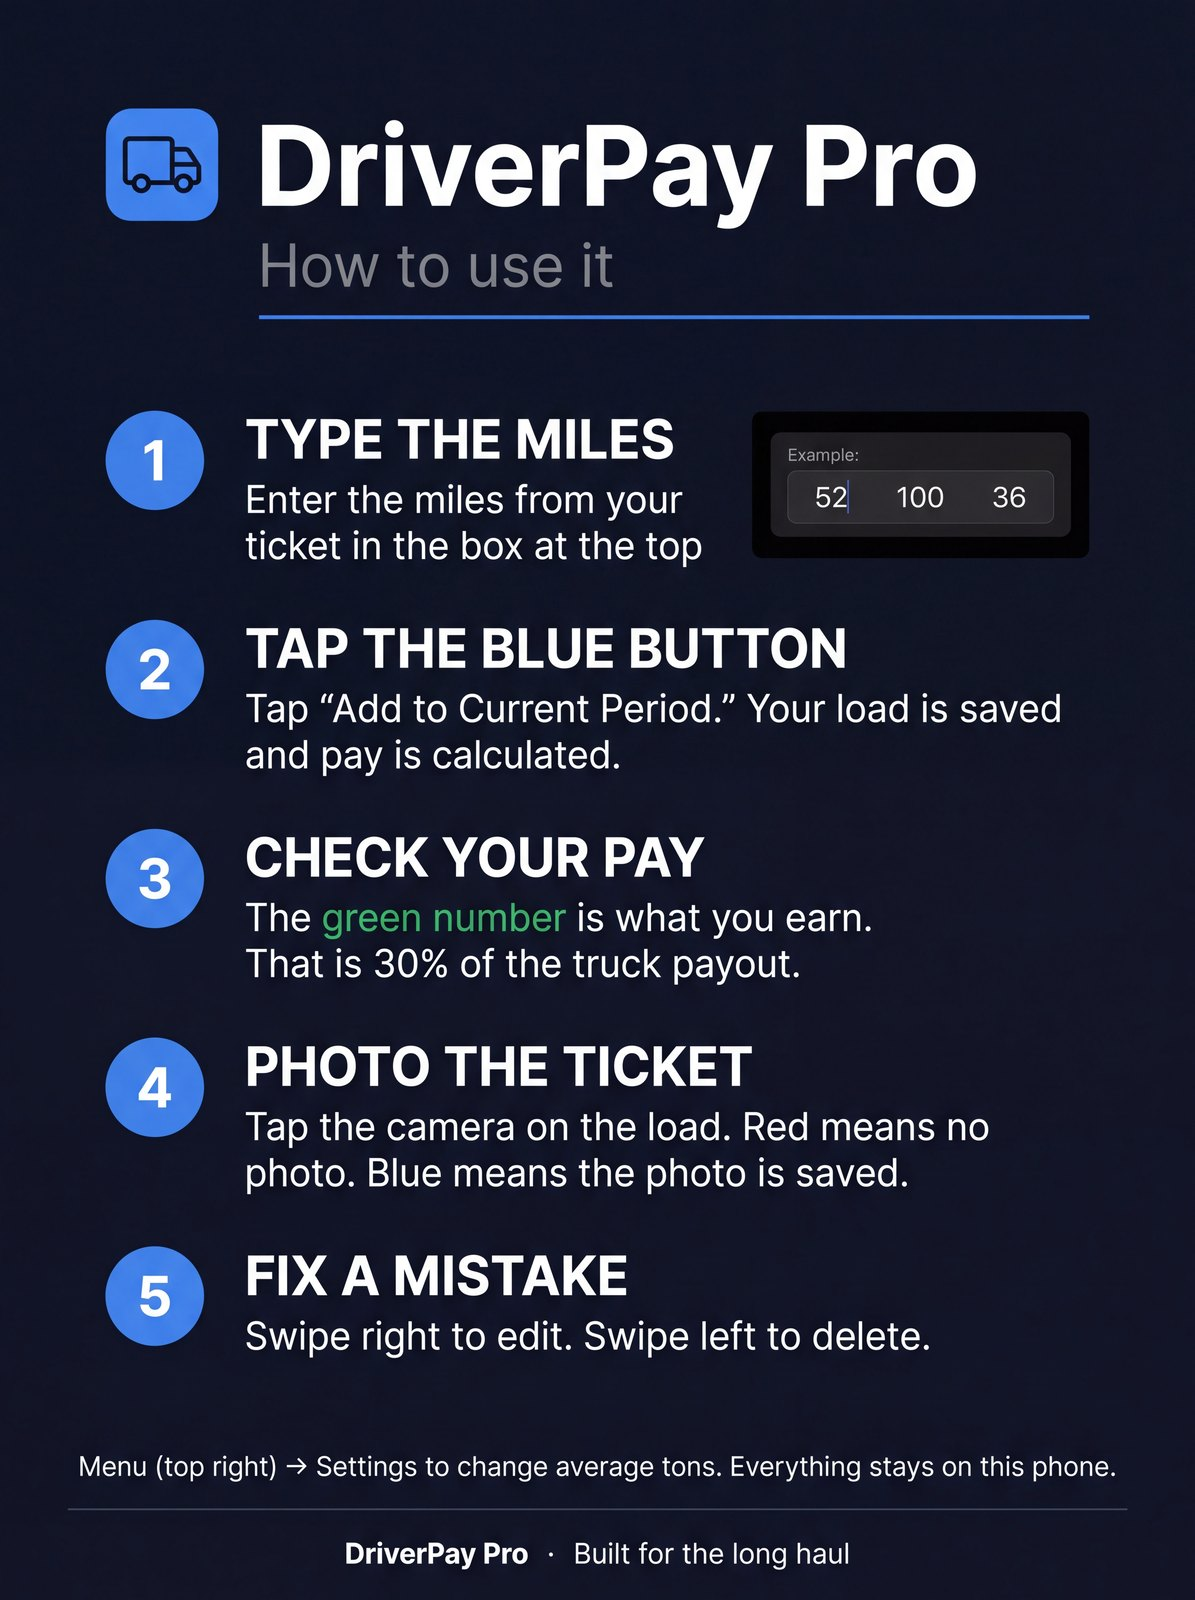
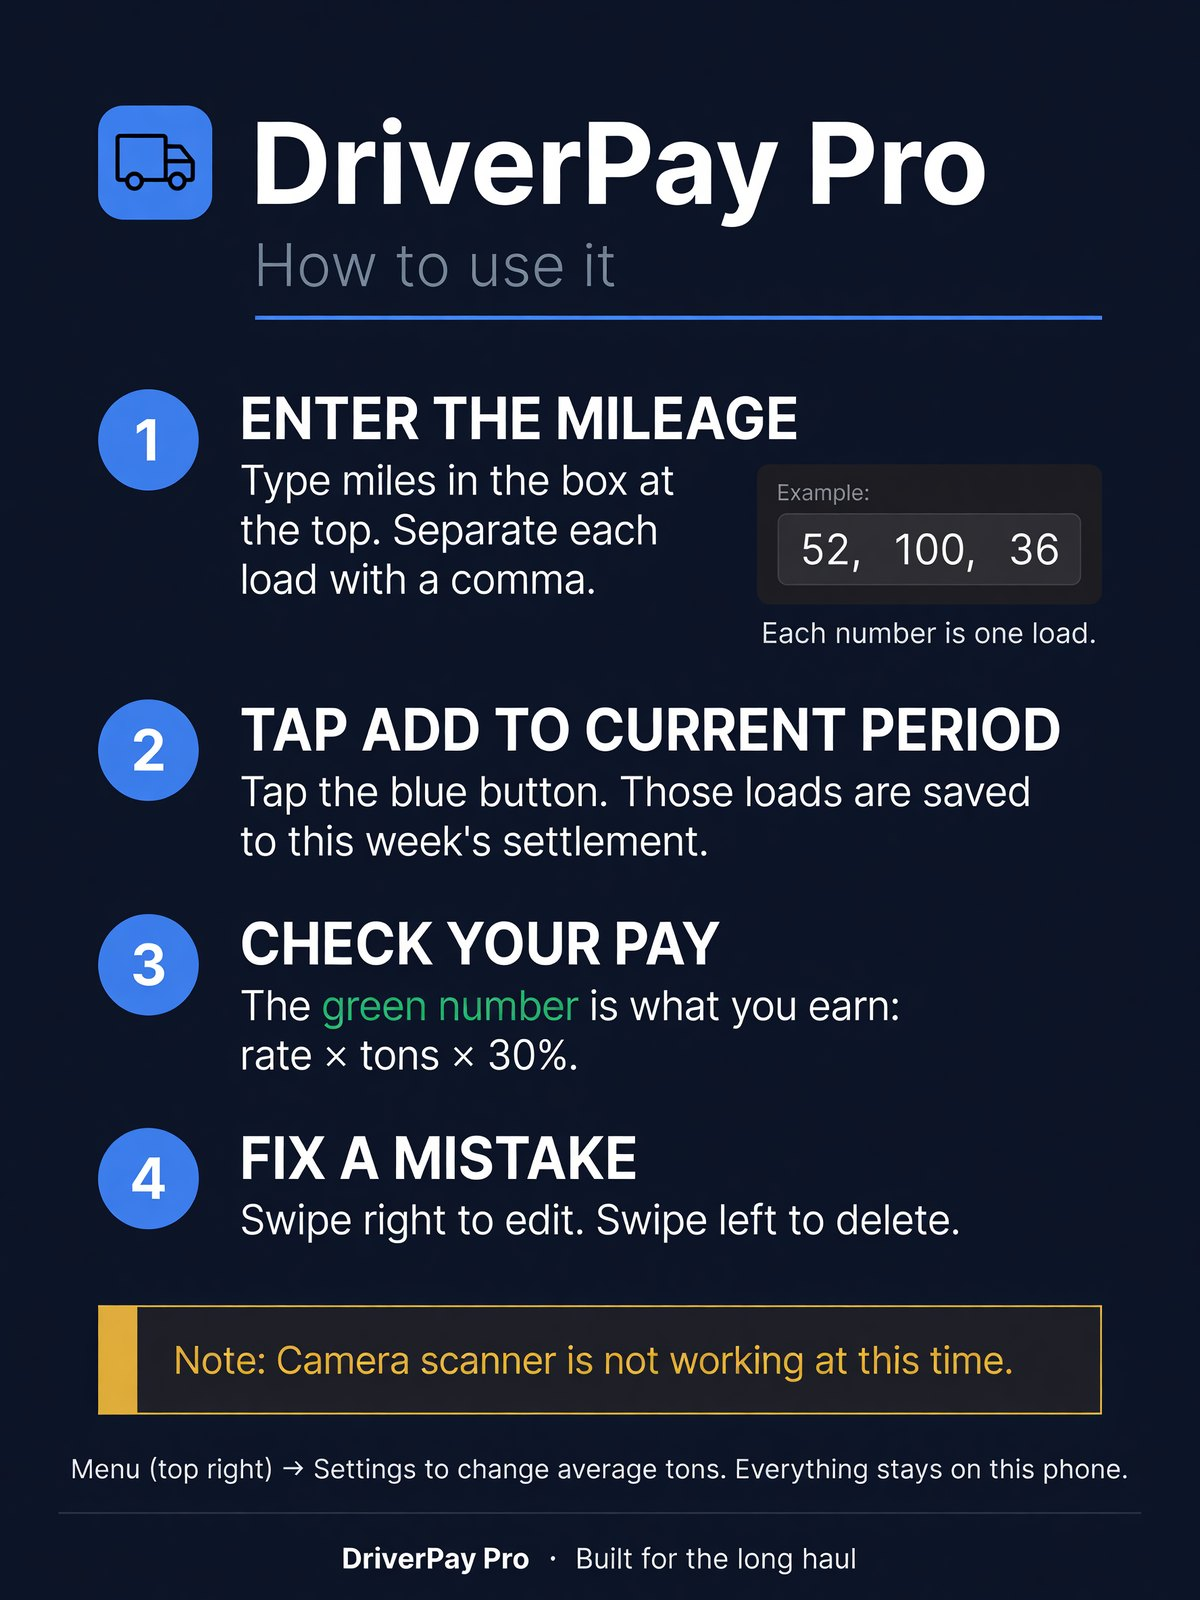
Note that the camera scanner is down
Update the Grok Imagine flyer and in-app help so drivers know the camera scanner is not working right now. Mileage is still entered as comma-separated loads.

diff --git a/index.html b/index.html
@@ -6,8 +6,8 @@
     <meta http-equiv="Cache-Control" content="no-cache, no-store, must-revalidate">
     <meta http-equiv="Pragma" content="no-cache">
     <meta http-equiv="Expires" content="0">
-    <meta name="driverpay-build" content="2.12.39">
-    <title>DriverPay Pro v2.12.39</title>
+    <meta name="driverpay-build" content="2.12.40">
+    <title>DriverPay Pro v2.12.40</title>
     <script>
     (function () {
         var meta = document.querySelector('meta[name="driverpay-build"]');
@@ -240,6 +240,18 @@
             color: #e2e8f0; white-space: nowrap; pointer-events: none;
         }
         .doc-scanner-status.locked { color: #86efac; background: rgba(22,101,52,0.55); }
+        .doc-scanner-offline-note {
+            position: absolute; left: 16px; right: 16px;
+            top: calc(104px + env(safe-area-inset-top, 0px));
+            z-index: 3; pointer-events: none;
+            background: rgba(251,191,36,0.12);
+            border: 1px solid rgba(251,191,36,0.35);
+            border-left: 3px solid #fbbf24;
+            border-radius: 8px;
+            padding: 10px 12px;
+            font-size: 12px; font-weight: 800; line-height: 1.35;
+            color: #fde68a; text-align: center;
+        }
         .doc-scanner-bottom {
             position: absolute; left: 0; right: 0; bottom: 0; z-index: 3;
             display: grid; grid-template-columns: 1fr auto 1fr; align-items: center; gap: 12px;
@@ -384,7 +396,7 @@
     <header class="app-header">
         <div class="header-title">
             <h1>DriverPay <span>Pro</span></h1>
-            <p id="headerSubtitle">25 Ton Avg @ 30% Commission · v2.12.39</p>
+            <p id="headerSubtitle">25 Ton Avg @ 30% Commission · v2.12.40</p>
         </div>
         <div class="menu-container">
             <button class="menu-btn" onclick="toggleMenu(event)" aria-label="Menu">
@@ -487,7 +499,7 @@
             </div>
             <div class="footer-tagline">Built for the long haul</div>
             <div class="footer-meta">
-                <span class="footer-version">v2.12.39</span>
+                <span class="footer-version">v2.12.40</span>
                 <span class="footer-meta-dot"></span>
                 <span>© 2026</span>
                 <span class="footer-meta-dot"></span>
@@ -555,6 +567,7 @@
                     <span class="ticket-control-status" id="editTicketStatus">No ticket — tap to add photo</span>
                     <button type="button" class="ticket-control-view" id="editTicketView" style="display:none;" onclick="viewEditTicket()">View</button>
                 </div>
+                <div class="help-tip" style="margin-top:10px;"><strong>Note:</strong> Camera scanner is not working at this time.</div>
             </div>
             <div class="edit-row">
                 <label class="edit-label">Day</label>
@@ -658,8 +671,8 @@
                         <span class="help-section-icon"><svg width="14" height="14" viewBox="0 0 24 24" fill="none" stroke="currentColor" stroke-width="2.5" stroke-linecap="round" stroke-linejoin="round"><path d="M23 19a2 2 0 0 1-2 2H3a2 2 0 0 1-2-2V8a2 2 0 0 1 2-2h4l2-3h6l2 3h4a2 2 0 0 1 2 2z"/><circle cx="12" cy="13" r="4"/></svg></span>
                         Load Tickets
                     </div>
-                    <p>Every load has a camera icon. <strong style="color:#ef4444;">Red</strong> = no ticket yet. <strong style="color:#60a5fa;">Blue</strong> = photo saved on this device. Tap the camera to open the in-app scanner — it finds a paper ticket outline with OpenCV, locks after a steady hold, then tap capture. Use <strong>Photos</strong> to import from your library. Saved on this device only.</p>
-                    <div class="help-tip"><strong>Tip:</strong> Capturing inside Edit stages the photo until you tap Save.</div>
+                    <p>Every load has a camera icon. <strong style="color:#ef4444;">Red</strong> = no ticket yet. <strong style="color:#60a5fa;">Blue</strong> = photo saved on this device.</p>
+                    <div class="help-tip"><strong>Note:</strong> Camera scanner functionality is not working at this time.</div>
                 </div>
                 <div class="help-section">
                     <div class="help-section-title">
@@ -807,6 +820,7 @@
                 </button>
             </div>
             <div class="doc-scanner-status" id="docScannerStatus">Find a document</div>
+            <div class="doc-scanner-offline-note">Note: Camera scanner is not working at this time.</div>
             <div class="doc-scanner-bottom">
                 <label class="doc-photos-btn" for="ticketGalleryInput" id="docScannerGallery">
                     <span class="doc-photos-icon">
@@ -1037,7 +1051,7 @@
 
         function applySettingsToHeader() {
             const sub = document.getElementById('headerSubtitle');
-            if (sub) sub.textContent = `${settings.avgTons} Ton Avg @ 30% Commission · v2.12.39`;
+            if (sub) sub.textContent = `${settings.avgTons} Ton Avg @ 30% Commission · v2.12.40`;
         }
 
         let savedScrollY = 0;
